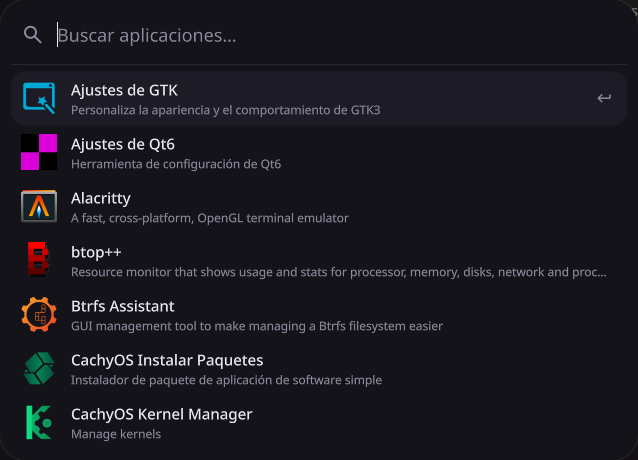
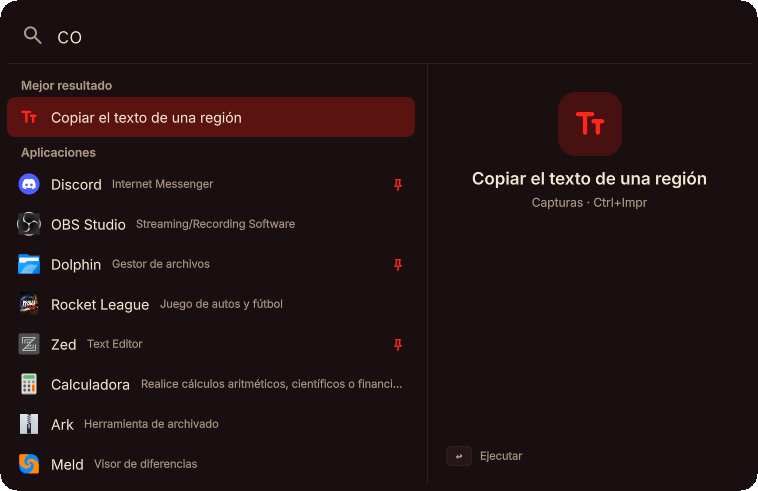
README al día: capturas nuevas de los menús y lo que cambió en estas semanas
Capturas recortadas por la silueta de cada menú (bin/menu-shot.py, sin nada de las ventanas
de atrás): launcher, menú de la araña, centro de control, mezcladora, modo foco y calendario.
Salen las de la bandeja y del menú de dispositivos, que ya no existen. El texto suma la luz
nocturna, el anotador, la pestaña de seguridad, No molestar al estudiar, el kit de menús, las
escalas de Theme y el hook de commits; saca Dispositivos, la bandeja en la barra, la tile de
Pagos, el menú del sistema en tarjeta, Noticias y el kit «matemática». Requisitos: suman
ddcutil, hyprsunset, fd y poppler; salen playerctl, brightnessctl y udisks2, que ya no se usan.

diff --git a/bin/menu-shot.py b/bin/menu-shot.py
@@ -1,0 +1,76 @@
+#!/usr/bin/env python3
+"""Recorta un menú de una captura completa por su color de fondo, sin nada de lo que haya detrás
+(AGENTS.md: las capturas del repo no pueden mostrar otras ventanas).
+
+Uso: menu-shot.py captura.png salida.png SEMILLA_X SEMILLA_Y [Y_MIN] [ANCHO_MAX] [ALTO_MAX]
+La semilla es un punto dentro del menú (cerca de su margen, no sobre un slider). Se toma como fondo el
+color más frecuente alrededor de ella y se inunda desde ahí: esa es la silueta del menú. Lo encerrado
+(texto, íconos) se conserva y lo de afuera queda transparente. Y_MIN deja afuera la barra (50 para los
+menús que cuelgan de ella). Si la silueta sale de un tamaño raro (se escapó a una ventana del mismo
+color, o el menú no estaba abierto) no se guarda nada y sale con error.
+Capturar con el menú ya abierto del todo: timeout 4 grim -o HDMI-A-1 captura.png
+"""
+import sys
+from collections import deque
+import numpy as np
+from PIL import Image, ImageDraw
+
+src, dst, sx, sy = sys.argv[1], sys.argv[2], int(sys.argv[3]), int(sys.argv[4])
+ymin = int(sys.argv[5]) if len(sys.argv) > 5 else 50
+wmax = int(sys.argv[6]) if len(sys.argv) > 6 else 900
+hmax = int(sys.argv[7]) if len(sys.argv) > 7 else 1000
+
+img = np.array(Image.open(src).convert("RGB"))
+H, W, _ = img.shape
+# El fondo del menú, tal como sale en la captura (el compositor lo corre un poco del de Themes.qml)
+win = img[max(0, sy - 10):sy + 11, max(0, sx - 10):sx + 11].reshape(-1, 3)
+colors, counts = np.unique(win, axis=0, return_counts=True)
+BG = tuple(int(c) for c in colors[counts.argmax()])
+isbg = np.all(np.abs(img.astype(int) - BG) <= 1, axis=2)
+isbg[:ymin, :] = False  # la barra (y el cuello del menú) quedan afuera
+
+# La semilla tiene que caer en el fondo: se busca el píxel de fondo más cercano
+if not isbg[sy, sx]:
+    ys, xs = np.nonzero(isbg[max(0, sy - 30):sy + 30, max(0, sx - 30):sx + 30])
+    if len(ys) == 0:
+        sys.exit(f"{dst}: no hay fondo del menú cerca de la semilla")
+    i = np.argmin((ys - 30) ** 2 + (xs - 30) ** 2)
+    sy, sx = ys[i] + max(0, sy - 30), xs[i] + max(0, sx - 30)
+
+def flood(allowed, seeds):
+    out = np.zeros_like(allowed)
+    q = deque()
+    for y, x in seeds:
+        if allowed[y, x] and not out[y, x]:
+            out[y, x] = True
+            q.append((y, x))
+    while q:
+        y, x = q.popleft()
+        for ny, nx in ((y + 1, x), (y - 1, x), (y, x + 1), (y, x - 1)):
+            if 0 <= ny < allowed.shape[0] and 0 <= nx < allowed.shape[1] and allowed[ny, nx] and not out[ny, nx]:
+                out[ny, nx] = True
+                q.append((ny, nx))
+    return out
+
+body = flood(isbg, [(sy, sx)])
+ys, xs = np.nonzero(body)
+y0, y1, x0, x1 = ys.min(), ys.max() + 1, xs.min(), xs.max() + 1
+w, h = x1 - x0, y1 - y0
+if w > wmax or h > hmax or w < 120 or h < 80:
+    sys.exit(f"{dst}: silueta sospechosa {w}x{h} en ({x0},{y0}): no se guarda")
+
+# Afuera = lo que no es fondo y se alcanza desde el borde del recuadro sin cruzar la silueta
+b = body[y0:y1, x0:x1]
+edge = [(y, x) for y in range(h) for x in (0, w - 1)] + [(y, x) for x in range(w) for y in (0, h - 1)]
+outside = flood(~b, edge)
+alpha = np.where(outside, 0, 255).astype(np.uint8)
+rgba = np.dstack([img[y0:y1, x0:x1], alpha])
+out = Image.fromarray(rgba, "RGBA")
+
+# Arriba el corte es recto (ahí el menú se une a la barra): se le redondean las esquinas
+r = 14
+m = Image.new("L", (w, h), 0)
+ImageDraw.Draw(m).rounded_rectangle([0, 0, w - 1, h + r], radius=r, fill=255)
+out.putalpha(Image.fromarray(np.minimum(np.array(out.getchannel("A")), np.array(m))))
+out.save(dst, optimize=True)
+print(f"{dst}: {w}x{h}")

diff --git a/README.md b/README.md
@@ -2,7 +2,7 @@
 
 Un escritorio propio para **Hyprland**, hecho con [Quickshell](https://quickshell.org) (QML): barra superior, menús, notificaciones, launcher, bloqueo de pantalla, pantalla de inicio de sesión y una bienvenida. Todo en un solo repositorio, con un mismo diseño.
 
-La idea: la integración con el borde del monitor que da Caelestia Shell (las barras y los menús *nacen* de la pantalla), el estilo de macOS, los atajos de Omarchy y la barra de tareas de Windows para saber siempre qué tenés abierto. Menús **sólidos** (sin transparencias) y minimalismo.
+La idea: la integración con el borde del monitor que da Caelestia Shell (las barras y los menús *nacen* de la pantalla), el estilo de macOS, los atajos de Omarchy y la barra de tareas de Windows para saber siempre qué tenés abierto. Menús **sólidos** (sin transparencias) y minimalismo: todos los menús se arman con las mismas piezas (filas, títulos chicos y líneas finas en vez de cajas), con controles neutros y el color del tema solo para lo que está activo.
 
 > *English, in one line:* a self-contained Hyprland desktop shell written in Quickshell/QML (bar, menus, notifications, launcher, lock screen, greetd greeter). The UI is in Spanish; see [Personalizar](#personalizar) to change it.
 
@@ -27,10 +27,9 @@ La idea: la integración con el borde del monitor que da Caelestia Shell (las ba
 | **Escritorios** | Los escritorios de cada monitor (cada barra muestra los suyos), con el ícono de la app de cada uno; el activo se ensancha con su número. El escritorio `gaming` de Hyprland aparece cuando tiene ventanas. |
 | **Reloj y calendario** | Fecha y hora; al pasar el mouse la fecha se completa. Clic abre el calendario. |
 | **Volumen y mezcladora** | Dispositivo de salida y de entrada, y un volumen por cada app. Rueda cambia el volumen, clic del medio silencia. |
-| **Notificaciones** | Servidor propio (reemplaza a swaync, mako o dunst): tarjetas animadas, historial, *No molestar*, acciones. |
-| **Dispositivos** | Discos y unidades conectadas con el espacio libre; monta y expulsa pendrives. |
-| **Bandeja del sistema** | Los íconos de las apps (Discord, Steam...) con un menú propio al hacer clic derecho. |
-| **Apps abiertas** | Ventanas, las minimizadas y las que siguen corriendo sin ventana. |
+| **Notificaciones** | Servidor propio (reemplaza a swaync, mako o dunst): tarjetas animadas, historial agrupado por app, *No molestar* y acciones. |
+| **Centro de control** | Brillo del monitor y volumen, y cuatro interruptores: modo foco, No molestar, **luz nocturna** (con su calidez y horario, que se despliegan ahí mismo) y teclado. |
+| **Segundo plano** | Las ventanas minimizadas y las apps que siguen corriendo sin ventana o en la bandeja (Discord, Steam, Sung...), cada una con su menú de opciones. Reemplaza a la bandeja del sistema en la barra. |
 
 **Y además:**
 
@@ -43,33 +42,36 @@ La idea: la integración con el borde del monitor que da Caelestia Shell (las ba
 - **Bienvenida** al iniciar sesión: lluvia de código, el logo que se descifra y la barra que baja desde el borde.
 - **Capturas** con editor para anotar y recortar, miniatura en el aviso (clic para editarla, botón para borrarla) y OCR para copiar texto de la pantalla.
 - Avisos cuando Claude Code o Antigravity terminan una tarea larga (y no los muestra si ya tenés la terminal a la vista).
-- **Centro de control** en la barra (ícono de ajustes): slider de **brillo** del monitor (por DDC/CI con `ddcutil`, sirve para monitores externos de escritorio), slider de volumen, layout de teclado, modo foco, No molestar y dispositivos. Así la barra queda con lo esencial. Si hay unidades conectadas, el botón muestra cuántas.
+- **Centro de control** en la barra (ícono de ajustes): **brillo** del monitor por DDC/CI con `ddcutil` (sirve para monitores externos de escritorio), volumen, modo foco, No molestar, luz nocturna y distribución del teclado. Así la barra queda con lo esencial.
+- **Luz nocturna** con `hyprsunset`: entibia la pantalla de 20:00 a 7:00, con una transición suave. Lo que elijas a mano vale hasta el próximo cambio de horario (como en macOS) y la calidez se ajusta desde el centro de control.
 - **Proyectos de C para estudiar:** `bin/cproj.sh nombre` crea en `~/Universidad` un proyecto con CMake (avisos estrictos), `compile_commands.json` para clangd y un Makefile con `make run`, `make leaks` (valgrind), `make asan` y `make debug` (gdb).
 - **Calendario con agenda:** además del mes, muestra el número de semana, los **feriados de Argentina** (se bajan una vez de Nager.Date y quedan en caché), tus **eventos** (tocás un día, escribís, hora opcional y Enter; los propios suenan como notificación a la hora), los **días que estudiaste** con el modo foco y lo que viene. Se puede conectar **Google Calendar** por la API oficial (lee y escribe: lo que anotes aparece en el celular) o, solo para ver, con la «dirección secreta en formato iCal»; ver [`docs/google-calendar.md`](docs/google-calendar.md). Las credenciales y el token quedan en `~/.local/share/ombu` (solo legibles por vos, fuera del repo). Si tenés varios calendarios (por ejemplo uno compartido con la familia), en el mismo panel elegís cuáles se muestran.
-- **Pagos y suscripciones** (tile «Pagos» del centro de control): una lista con cuánto es cada una, qué día vence, quién paga y el total por mes. Cada una crea en tu calendario un evento que se repite todos los meses, con aviso el día antes y el mismo día a las 9 (si Google está conectado, también llega al celular). Se cargan con `quickshell -c ombu ipc call subs add Netflix 11850 ARS 6 mama "Mercado Pago"` (moneda `ARS` o `USD`; día del 1 al 31, o `-1` para el último del mes; paga `yo` o `mama`) y se sacan con `subs remove`. Lo que paga otra persona (`mama`) se crea en el calendario compartido de la familia, si lo hay, para que ella también lo vea. Los datos quedan en `~/.local/share/ombu/suscripciones.json`, fuera del repo.
-- **Menú del sistema** (`Super+Alt+Espacio`, como el de Omarchy): una tarjeta al centro con las secciones Apps, Estilo, Ajustes, Capturas, Herramientas y Sistema. Se navega con las flechas, `Enter` entra o ejecuta, `Esc` o `Retroceso` vuelven, y escribiendo busca en todo el menú. Apagar, reiniciar y cerrar sesión piden un segundo `Enter`.
-- **Temas** (`Super+Ctrl+Shift+Espacio`, o Estilo › Tema): diez paletas oscuras: **Spider-Man** (negro cálido, crema, rojo y verde azulado, sacada de un fondo de cómic) e **Iron Man** (gris acero, rojo y dorado) con borde de ventana en degradé y sombras duras de viñeta, y Ombú, Tokyo Night, Catppuccin, Rosé Pine, Gruvbox, Nord, Everforest y Carbón. Al moverte por la lista cada tema se **previsualiza** en vivo, `Esc` lo deja como estaba y `Enter` lo confirma; también cambia el color del borde de la ventana activa. Se recuerda entre sesiones. También con `quickshell -c ombu ipc call menu theme tokyo`. **El explorador de archivos (Dolphin) y la terminal (kitty) también cambian de color**, y las carpetas toman el color de cada tema (la siguiente ventana que abras).
+- **Pagos y suscripciones** (en el Resumen del panel lateral): una lista con cuánto es cada una, qué día vence, quién paga y el total por mes. Cada una crea en tu calendario un evento que se repite todos los meses, con aviso el día antes y el mismo día a las 9 (si Google está conectado, también llega al celular). Se cargan con `quickshell -c ombu ipc call subs add Netflix 11850 ARS 6 mama "Mercado Pago"` (moneda `ARS` o `USD`; día del 1 al 31, o `-1` para el último del mes; paga `yo` o `mama`) y se sacan con `subs remove`. Lo que paga otra persona (`mama`) se crea en el calendario compartido de la familia, si lo hay, para que ella también lo vea. Los datos quedan en `~/.local/share/ombu/suscripciones.json`, fuera del repo.
+- **Menú de la araña** (el logo de la barra, o `Super+Alt+Espacio`): cuelga de la barra como el menú de Apple, con la sesión y el sistema: Apariencia (los temas, con vista previa), fondo de pantalla, atajos, actualizar el sistema (con cuántas actualizaciones hay), seguridad y procesos, reposo, bloquear, cerrar sesión, reiniciar y apagar. Se navega con las flechas y `Enter`; lo que corta la sesión pide un segundo clic. Todo lo demás se encuentra escribiendo en el launcher.
+- **Temas** (`Super+Ctrl+Shift+Espacio`, o Apariencia en el menú de la araña): diez paletas oscuras: **Spider-Man** (negro cálido, crema, rojo y verde azulado, sacada de un fondo de cómic) e **Iron Man** (gris acero, rojo y dorado) con borde de ventana en degradé y sombras duras de viñeta, y Ombú, Tokyo Night, Catppuccin, Rosé Pine, Gruvbox, Nord, Everforest y Carbón. Al moverte por la lista cada tema se **previsualiza** en vivo, `Esc` lo deja como estaba y `Enter` lo confirma; también cambia el color del borde de la ventana activa. Se recuerda entre sesiones. También con `quickshell -c ombu ipc call menu theme tokyo`. **El explorador de archivos (Dolphin) y la terminal (kitty) también cambian de color**, y las carpetas toman el color de cada tema (la siguiente ventana que abras).
 - **Launcher con modos** (`Super+Espacio`): además de apps, `=2+3*4` o una cuenta con operadores **calcula**, `10 km a mi`, `30 c en f` o `5 kg to lb` **convierte unidades** (largo, masa, volumen, velocidad, datos y temperatura), `/texto` **busca archivos** en tu carpeta personal y `?texto` busca en la web. `Enter` copia el resultado o abre el archivo (`Shift+Enter` abre su carpeta), y `Ctrl+Y` muestra una **vista previa** estilo Quick Look: imágenes, PDF (primera página), código y texto, y el contenido de una carpeta.
-- **Panel lateral** (pegando el mouse al borde izquierdo del monitor principal un instante, o `Super+A`): tres pestañas. **Resumen**: la hora, tu agenda de hoy, lo que viene, los pagos próximos, lo estudiado y la música. **Noticias** de Argentina, economía, tecnología, seguridad y programación (de feeds RSS, sin farándula ni obituarios; se pueden cambiar en `~/.local/share/ombu/noticias.json`). **Sistema**: procesador, memoria, placa de video, discos, red y tiempo encendida. Todo se mide o se baja **solo mientras el panel está abierto**: cerrado no consume nada. No se abre con el mouse en el escritorio de juegos ni bajo una ventana en pantalla completa.
+- **Panel lateral** (pegando el mouse al borde izquierdo del monitor principal un instante, o `Super+A`): dos pestañas. **Resumen**: saludo, hora y clima, lo que toca ahora, parciales y entregas de la facultad, la agenda, lo estudiado en la semana, los pagos próximos, el dólar, tus proyectos y la música. **Sistema**: un vistazo de **seguridad** (puertos abiertos a la red, firewall, actualizaciones pendientes y noticias de Arch que piden intervención, servicios caídos y los procesos que más consumen) y el hardware (procesador, memoria, placa de video, discos y red). Todo se mide o se baja **solo mientras el panel está abierto**: cerrado no consume nada. No se abre con el mouse en el escritorio de juegos ni bajo una ventana en pantalla completa.
+- **Anotador de la facultad** (`Super+Alt+N`): escribís como en el papel («parcial eda jueves 18hs», «entrega so el 15/11», «nota: repasar punteros») y entiende el tipo, la materia, la fecha y la hora. Las fechas van al calendario con sus avisos (un parcial avisa 3 días, 1 día y 2 horas antes) y las notas a la carpeta de cada materia.
 - **Lista de atajos** (`Super+K`): un menú con buscador, como el de Omarchy, con los atajos agrupados por categoría. Lee las descripciones que `hypr/atajos.lua` le agrega a cada atajo de Hyprland, así que siempre muestra lo que está activo de verdad.
-- **Modo foco** (se abre desde el centro de control; mientras hay una sesión, el cronómetro aparece en la barra): temporizador de estudio y descanso (25/5), tres modos (estudio, trabajo, libre), estadística y racha del día, un entorno de estudio que se abre al empezar (NotebookLM, el editor y una terminal con la IA, según estudies programación, matemática u otra cosa), un cajón para anotar ideas sin distraerte y, en modo estudio, un bloqueo de juegos y de redes sociales (Instagram, TikTok...; YouTube no) que avisa antes de cerrarlos y se puede saltar esperando 60 segundos.
+- **Modo foco** (se abre desde el centro de control; mientras hay una sesión, el cronómetro aparece en la barra): temporizador de estudio y descanso (25/5), tres modos (estudio, trabajo, libre), estadística y racha del día, un entorno de estudio que se abre al empezar (NotebookLM y el editor para programación, o solo NotebookLM), un cajón para anotar ideas sin distraerte y, en modo estudio, un bloqueo de juegos y de redes sociales (Instagram, TikTok...; YouTube no) que avisa antes de cerrarlos y se puede saltar esperando 60 segundos. El bloque de estudio activa **No molestar** solo: pasan únicamente los avisos importantes (parciales, entregas, pagos del día y los del propio modo foco).
 - **Historial del portapapeles** con búsqueda, miniaturas de imágenes, textos fijados y pegado automático en la ventana donde estabas. No guarda lo que las apps marcan como sensible (gestores de contraseñas), se puede pausar y se vacía en cada sesión nueva.
 - Un explorador de archivos que se abre donde está tu terminal.
 
 <p align="center">
+  <img src="docs/screenshots/launcher.png" width="560" alt="Launcher estilo Spotlight con resultados agrupados y el detalle a la derecha">
+</p>
+<p align="center">
+  <img src="docs/screenshots/main-menu.png" width="250" alt="Menú de la araña: sesión y sistema">
+  <img src="docs/screenshots/control-center.png" width="320" alt="Centro de control: brillo, volumen, foco, No molestar, luz nocturna y teclado">
+</p>
+<p align="center">
+  <img src="docs/screenshots/mixer-menu.png" width="280" alt="Mezcladora: salida, entrada y volumen por app">
+  <img src="docs/screenshots/focus-menu.png" width="260" alt="Modo foco: temporizador, entorno de estudio y la semana">
+  <img src="docs/screenshots/calendar.png" width="300" alt="Calendario con agenda">
+</p>
+<p align="center">
   <img src="docs/screenshots/lock.png" width="360" alt="Pantalla de bloqueo">
-  <img src="docs/screenshots/launcher.png" width="360" alt="Launcher">
-</p>
-<p align="center">
-  <img src="docs/screenshots/calendar.png" width="230" alt="Calendario">
-  <img src="docs/screenshots/tray-menu.png" width="230" alt="Menú de un ícono de la bandeja">
-</p>
-<p align="center">
-  <img src="docs/screenshots/devices-menu.png" width="300" alt="Centro de dispositivos">
-  <img src="docs/screenshots/mixer-menu.png" width="300" alt="Mezcladora de audio">
-</p>
-<p align="center">
-  <img src="docs/screenshots/power-menu.png" width="560" alt="Menú de energía">
+  <img src="docs/screenshots/power-menu.png" width="360" alt="Menú de energía">
 </p>
 
 ## Requisitos
@@ -78,17 +80,19 @@ Hecho y probado en **CachyOS** con **Hyprland 0.56** (configuración en Lua) y *
 
 ```sh
 sudo pacman -S quickshell hyprland ttf-material-symbols-variable \
-    pipewire wireplumber playerctl brightnessctl \
+    pipewire wireplumber ddcutil hyprsunset \
     cliphist wl-clipboard grim slurp libnotify satty \
     tesseract tesseract-data-spa tesseract-data-eng \
-    udisks2 papirus-icon-theme python
+    fd poppler papirus-icon-theme python
 ```
 
 - `ttf-material-symbols-variable`: la fuente de los íconos (Material Symbols Rounded).
 - `papirus-icon-theme`: ombu usa sus íconos para Discord y Minecraft (ver `Icons.qml`).
 - `cliphist` y `wl-clipboard`: historial del portapapeles (`Super+V`). `grim` y `slurp`: capturas.
 - `satty`: el editor de capturas (anotar y recortar). `tesseract` y sus datos de idioma: copiar texto de una imagen. Sin ellos las capturas siguen funcionando, solo que sin editor ni OCR.
-- `udisks2`: montar y expulsar unidades desde el menú de dispositivos.
+- `ddcutil`: el brillo de monitores externos (DDC/CI). Si `ddcutil detect` no ve tu monitor, cargá el módulo `i2c-dev`.
+- `hyprsunset`: la luz nocturna. Sin él, todo lo demás anda igual.
+- `fd` y `poppler`: en el launcher, buscar archivos (`/texto`) y la vista previa de los PDF.
 - Opcional: `greetd` para la pantalla de inicio de sesión.
 
 > ombu **es** el servidor de notificaciones. Detené cualquier otro (`swaync`, `mako`, `dunst`, el de Caelestia...) o los dos pelearán por `org.freedesktop.Notifications`.
@@ -109,11 +113,18 @@ dofile(os.getenv("HOME") .. "/.config/quickshell/ombu/hypr/ombu.lua")
 
 Ese archivo ([`hypr/ombu.lua`](hypr/ombu.lua)) arranca el shell, agrega los atajos y las reglas que hacen falta. Léelo antes: si ya usás alguno de esos atajos, cambialo ahí. Recargá Hyprland y listo. Para probarlo sin tocar tu configuración: `quickshell -c ombu`.
 
+Si vas a hacer cambios, activá el control de cada commit: `git config core.hooksPath .githooks`. Frena el commit si entra un secreto (tokens, claves, credenciales de Google), un archivo con datos personales, un `.qml`, `.sh` o `.py` que no compila, o si falla algún test.
+
 ### Atajos
 
 | Atajo | Qué hace |
 |---|---|
 | `Super + Espacio` | Launcher de aplicaciones |
+| `Super + Alt + Espacio` | Menú de la araña (sesión y sistema) |
+| `Super + A` | Panel lateral |
+| `Super + K` | Lista de atajos |
+| `Super + Alt + N` | Anotar un parcial, una entrega o una nota |
+| `Super + Ctrl + Espacio` | Elegir el fondo de pantalla |
 | `Super + Esc` / `Super + X` | Menú de energía |
 | `Super + Ctrl + L` | Bloquear la sesión |
 | `Super + B` | Mostrar u ocultar la barra |
@@ -136,7 +147,7 @@ Ese archivo ([`hypr/ombu.lua`](hypr/ombu.lua)) arranca el shell, agrega los ataj
 
 ```sh
 qs -c ombu ipc call bar toggle        # mostrar u ocultar la barra
-qs -c ombu ipc call bar mixer         # también: calendar, apps, devices, tray
+qs -c ombu ipc call bar mixer         # también: control, calendar, apps, focus
 qs -c ombu ipc call launcher toggle   # o: search "texto", close, run ID (abre o enfoca una app)
 qs -c ombu ipc call clip toggle       # historial del portapapeles
 qs -c ombu ipc call notif dnd         # también: dismiss, dismissAll, invoke, history
@@ -150,7 +161,8 @@ qs -c ombu ipc call bar focus         # menú del modo foco
 qs -c ombu ipc call focus start       # también: pause, stop, skip, mode estudio|trabajo|libre
 qs -c ombu ipc call focus idea "texto"   # anota una idea en el cajón
 qs -c ombu ipc call focus status      # estado del temporizador y del bloqueo
-qs -c ombu ipc call focus kit matematica # tipo de estudio; open abre el entorno completo
+qs -c ombu ipc call focus kit programacion # tipo de estudio (programacion u otro); open abre el entorno completo
+qs -c ombu ipc call night toggle      # luz nocturna; también: on, off, auto, temp 3500, status
 ```
 
 ## Pantalla de inicio de sesión (greetd)
@@ -172,9 +184,9 @@ Cada vez que cambies algo del diseño que usa el greeter (colores, bloqueo), vol
 
 ## Personalizar
 
-Todo el aspecto sale de [`Theme.qml`](Theme.qml): colores, radios, tamaños de la barra, tiempos de inactividad y del salvapantallas.
+Todo el aspecto sale de [`Theme.qml`](Theme.qml): colores, radios, tamaños de la barra, las escalas de **tipografía** (`fontCaption`, `fontBody`, `fontTitle`...) y de **animación** (`animQuick`, `animFast`, `animNormal`, `animSlow`), y los tiempos de inactividad y del salvapantallas. Cambiar un token cambia todo lo que tiene ese rol.
 
-- **Fondos de pantalla** (`Super+Ctrl+Espacio`, o Estilo › Fondo de pantalla): un menú grande al centro con una vista previa y las miniaturas de las imágenes de `~/Imágenes/Fondos` (y también de `~/Imágenes`). Moverte por la cuadrícula **previsualiza el fondo en el propio escritorio**; `Enter` lo aplica, `Esc` lo deja como estaba y escribir filtra por nombre. Trae «Aleatorio» y un botón para abrir tu carpeta. No incluye fondos: poné los tuyos. El elegido también se usa en el bloqueo.
+- **Fondos de pantalla** (`Super+Ctrl+Espacio`, o desde el menú de la araña): un menú grande al centro con una vista previa y las miniaturas de las imágenes de `~/Imágenes/Fondos` (y también de `~/Imágenes`). Moverte por la cuadrícula **previsualiza el fondo en el propio escritorio**; `Enter` lo aplica, `Esc` lo deja como estaba y escribir filtra por nombre. Trae «Aleatorio» y un botón para abrir tu carpeta. No incluye fondos: poné los tuyos. El elegido también se usa en el bloqueo.
 - **Inactividad:** `idleLockSeconds` (bloqueo, 5 min) e `idleScreenOffSeconds` (monitores, 30 min).
 - **Idioma:** los textos están en español y la fecha usa `es_AR` (`Chrono.qml`).
 - **Launcher:** las favoritas de fábrica y lo que se oculta están en [`Launch.qml`](Launch.qml); lo que abrís y fijás se guarda en `~/.local/share/ombu/launcher.json`.
@@ -182,6 +194,7 @@ Todo el aspecto sale de [`Theme.qml`](Theme.qml): colores, radios, tamaños de l
 - **Escritorios:** cada barra muestra los escritorios que Hyprland asigna a su monitor (reglas `hl.workspace_rule`, ver `hypr/ombu.lua` y tu `workspaces.lua`).
 - **Modo foco:** [`Focus.qml`](Focus.qml) tiene las duraciones (25/5/15), los juegos que se bloquean (`blockedPattern`, `blockedProcesses`), los sitios (`blockedSites`: se cierra la pestaña activa del navegador; YouTube queda libre) y qué se abre en cada tipo de estudio (`kits`, con la carpeta de la facultad en `studyDir`). Lo que anotás en el cajón queda en `~/.local/share/ombu/ideas.md`.
 - **Modo estudio para la IA:** [`bin/agent-study.sh`](bin/agent-study.sh) le pasa a Claude Code y a Antigravity unas reglas mientras dura un bloque de estudio (enseñar en vez de resolver, ideas ajenas al cajón). Se conecta con un hook de cada herramienta, ver [`AGENTS.md`](AGENTS.md).
+- **Luz nocturna:** el horario (`startMinute`, `endMinute`) y la temperatura están en [`NightLight.qml`](NightLight.qml); lo que elegís se guarda en `~/.local/share/ombu/nocturna.json`.
 - **Notificaciones:** [`NotifRules.qml`](NotifRules.qml) permite pasar a español los avisos de ciertas apps y descartar los de algo que ya tenés a la vista (viene una regla para Claude Code en kitty).
 
 Quickshell recarga solo al guardar un archivo `.qml`.
@@ -202,6 +215,7 @@ Nada de esto hace falta para usar ombu; sirve para que el explorador de archivos
 
 - **Un solo usuario.** El greeter y el bloqueo están pensados para una PC personal.
 - **NVIDIA y suspender:** en la RTX 2060 de quien lo escribió el suspend real cuelga la GPU al despertar, así que ombu no tiene "Suspender": tiene **Reposo**, que bloquea y deja el salvapantallas a la vista. Si tu equipo suspende bien, podés cambiar esa acción en `PowerMenu.qml`.
+- **Quickshell 0.3.2 a veces se cae al cerrarse** (al recargar o reiniciar ombu) y muestra un cartel de error: es un bug de Quickshell, no de ombu, y la instancia nueva sigue andando. Cerrá el cartel con *Exit*.
 - **Contraseña:** el bloqueo usa PAM con la configuración de [`pam.d/unlock`](pam.d/unlock) (solo `pam_unix`, sin `faillock`), así no se bloquea la cuenta por errores de tipeo. Si preferís `faillock`, agregalo ahí.
 - **Si el bloqueo se cuelga:** la regla `allow_session_lock_restore` permite lanzar otro desde una TTY con `quickshell -c ombu -d`.
 
@@ -210,15 +224,17 @@ Nada de esto hace falta para usar ombu; sirve para que el explorador de archivos
 ```
 shell.qml          punto de entrada: ventanas por monitor y comandos IPC
 Theme.qml          colores, tamaños y tiempos
-TopBar.qml         la barra (y WorkspaceStrip, TrayStrip, BarButton...)
-*Menu.qml          los menús que cuelgan de la barra (mezcladora, calendario, dispositivos...)
+TopBar.qml         la barra (y WorkspaceStrip, BarButton, BarGroup...)
+*Menu.qml          los menús que cuelgan de la barra (centro de control, mezcladora, calendario, foco...)
+MenuRow MenuSection MenuSeparator   el kit con el que se arman los menús (estilo macOS)
+SidePanel.qml      el panel lateral (Resumen y Sistema)
 Notifs*.qml        servidor de notificaciones y sus tarjetas
 Lock*.qml  Auth    pantalla de bloqueo y autenticación
 Saver*.qml Idle    salvapantallas ASCII y detección de inactividad
 Welcome*.qml       la bienvenida
 greeter/           pantalla de inicio de sesión para greetd (+ instalador)
 hypr/ombu.lua      configuración de Hyprland: arranque, reglas y atajos
-bin/               scripts: capturas, portapapeles, explorador, montar unidades, proyectos de C
+bin/               scripts: capturas, portapapeles, explorador, agenda, seguridad, proyectos de C
 extras/            tema para apps Qt y tema de iconos
 ```
 

diff --git a/AGENTS.md b/AGENTS.md
@@ -83,7 +83,7 @@ bin/               scripts: capturas (shot.sh: editor, OCR), portapapeles, explo
 **Pantalla y capturas**
 - Dos monitores: `HDMI-A-1` (principal, 1920x1080) y `DP-1` (un TV **vertical**: `transform = 1`, 1080x1920, en `1920x-493`; `DP-2` es el puerto fantasma del adaptador, desactivado en `monitors.lua`). Antes `grim` se colgaba en el TV por `DP-2`; con `DP-1` se pudo capturar (`timeout 4 grim -o DP-1`). Igual capturá siempre con `-o` y con límite de tiempo.
 - La persona **usa la PC mientras trabajás**. El IPC de ombu actúa sobre el **monitor con foco**: si el foco está en otro lado, el menú aparece ahí y la captura sale vacía.
-- Para el repo, capturá y **recortá** (ImageMagick: `magick in.png -crop WxH+X+Y out.png`) para que no entre nada de otras ventanas.
+- Para el repo, capturá y **recortá** para que no entre nada de otras ventanas. Para menús, [`bin/menu-shot.py`](bin/menu-shot.py) `captura.png salida.png X Y` recorta por la silueta del fondo del menú y deja transparente todo lo de atrás (semilla en el margen del menú, no sobre un slider). Capturá con el menú abierto del todo: esperá ~2 s tras abrirlo, y más después de reiniciar ombu (el primer menú tarda; si no, la captura sale vacía o a mitad de la animación).
 
 **Sistema**
 - **No hay suspend real**: el driver NVIDIA (GSP) cuelga la GPU al despertar. "Reposo" bloquea y muestra el salvapantallas.
